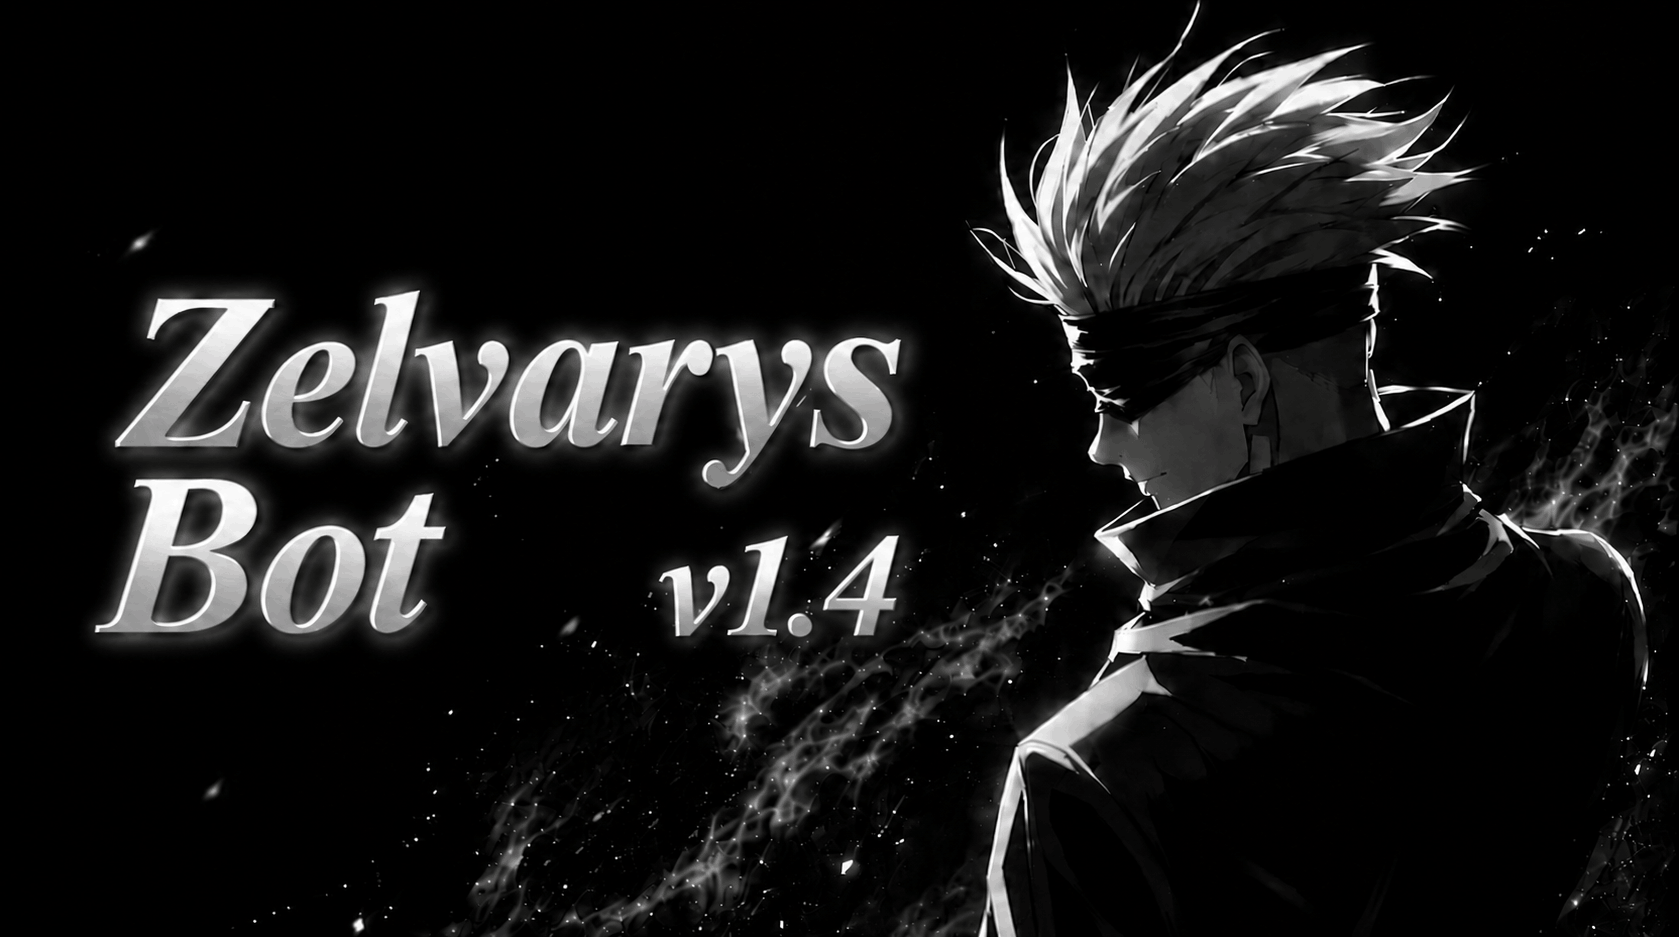
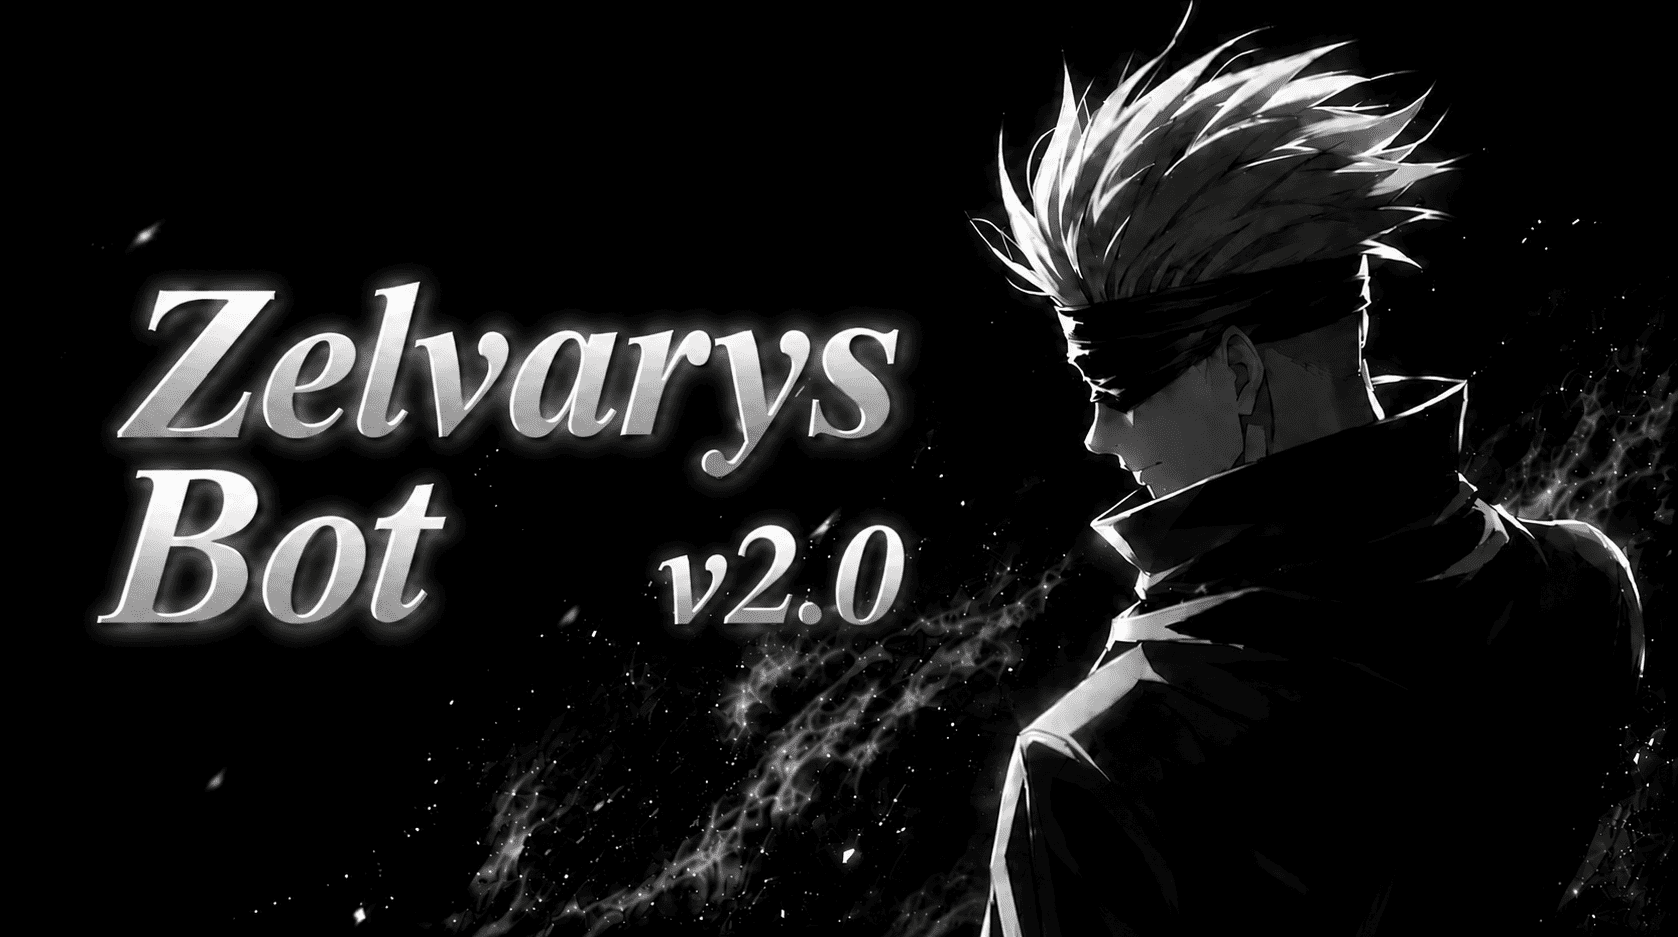
chore: tidy formatting and wording across files

diff --git a/src/commands/otherCommands.js b/src/commands/otherCommands.js
@@ -13,58 +13,58 @@ function buildHelpText() {
 
 ╔═══════ ∘◦ ✧ ◦∘ ═══════╗
 
-┌─⊶ *AI & CREATIVE*
-│• ask [question]
-│• story [prompt]
+┌─⊶ *1. AI & CREATIVE*
+│• ask <question>
 │• chatbot on/off
+│• summary <num>
 │• translate
-│• tts [text]
-│• summary [num]
-│• mood [type]
+│• story <prompt>
+│• tts <text>
+│• mood chill/roast
 └────────────⊶
 
-┌─⊶ *GAMES & FUN*
+┌─⊶ *2. GAMES & FUN*
+│• game <type>
 │• games
-│• game [type]
-│• bombshell
-│• cluster
+│• bombshell 
+│• hotseat
 │• ttt start @friend
-│• rps [choice]
 └────────────⊶
 
-┌─⊶ *UTILITY TOOLS*
-│• define [word]
+┌─⊶ *3. UTILITY TOOLS*
+│• define <word>
 │• compress
 │• sticker
-│• qrcode [text]
+│• pdf image/text
+│• qrcode <text>
 │• reveal
-│• weather [city]
+│• weather <city>
 └────────────⊶
 
-┌─⊶ *USER SYSTEM*
+┌─⊶ *4. USER SYSTEM*
 │• profile
 │• leaderboard
-│• register [name]
-│• crypto [coin]
+│• register <name>
+│• crypto <coin>
 │• feedback
 └────────────⊶
 
-┌─⊶ *MEDIA DOWNLOAD*
+┌─⊶ *5. MEDIA DOWNLOAD*
 │• download
-│• song [name/url]
+│• song <name/url>
 │• youtube
 │• tiktok
 │• facebook
 └────────────⊶
 
-┌─⊶ *OWNER ONLY*
+┌─⊶ *6. OWNER ONLY*
 │• broadcast
 │• groups
-│• mode [args]
+│• mode <args>
 │• restart
 └────────────⊶
 
-┌─⊶ *OTHERS*
+┌─⊶ *7. OTHERS*
 │• ping - Bot latency
 │• stats - Bot statistics
 │• !! - Repeat command
@@ -117,7 +117,7 @@ async function ping(sock, msg, sender) {
 
     await sock.sendMessage(sender, {
       text: `┌─⊶📡 *BOT LATENCY*
-│ 🏓 *Response:* ${responseTime}ms
+│ 🏓 *Ping:* ${responseTime}ms
 │ ${emoji} *Status:* ${status}
 └─────────────⊶`
     }, { quoted: msg });

diff --git a/src/commands/aiCommands.js b/src/commands/aiCommands.js
@@ -144,8 +144,8 @@ async function tts(sock, msg, sender, userJid, fullText) {
     return sock.sendMessage(sender, {
       text: `✧ *TEXT TO SPEECH*
 ┌─⊶
-│ *Usage:* ${config.prefix}tts [text]
-│ *Max:* ${config.ttsMaxLength} characters
+│ *Usage:* ${config.prefix}tts <text>
+│ *Example:* ${config.prefix}tts Zelvarys is Peak
 └─────────────⊶`
     }, { quoted: msg });
   }
@@ -278,7 +278,7 @@ async function mood(sock, msg, sender, userJid, args) {
 │ • roast — sharp and sarcastic
 │ • chill — laid-back and friendly
 │
-│ *Usage:* ${config.prefix}mood [roast/chill]
+│ *Usage:* ${config.prefix}mood <roast/chill>
 └─────────────⊶`
     }, { quoted: msg });
   }
@@ -304,8 +304,8 @@ async function mood(sock, msg, sender, userJid, args) {
 }
 
 function describeMood(m) {
-  if (m === 'roast') return '🔥 Roastful';
-  return '😎 Chill';
+  if (m === 'roast') return 'Roastful 🔥';
+  return 'Chill 😎';
 }
 
 module.exports = {

diff --git a/src/commands/userCommands.js b/src/commands/userCommands.js
@@ -130,7 +130,7 @@ async function register(sock, msg, sender, userJid, args) {
 async function crypto(sock, msg, sender, userJid, args) {
   if (args.length === 0) {
     return sock.sendMessage(sender, {
-      text: `✧ *CRYPTO PRICES*\n\n*Usage:* ${config.prefix}crypto [coin]\n*Supported:* ${config.supportedCryptos.join(', ')}`
+      text: `✧ *CRYPTO PRICES*\n\n*Usage:* ${config.prefix}crypto <coin>\n*Supported:* ${config.supportedCryptos.join(', ')}`
     }, { quoted: msg });
   }
 
@@ -179,7 +179,7 @@ async function feedback(sock, msg, sender, userJid, fullText) {
     return sock.sendMessage(sender, {
       text: `✧ *FEEDBACK SYSTEM*
 ┌─⊶
-│ *Usage:* ${config.prefix}feedback [message]
+│ *Usage:* ${config.prefix}feedback <message>
 │ Send suggestions or bug reports
 └─────────────⊶`
     }, { quoted: msg });

diff --git a/src/config/appConstants.js b/src/config/appConstants.js
@@ -9,18 +9,16 @@ const commandCachePath = path.join(dataDir, 'command_cache.json');
 
 // Content files (static, committed)
 const contentDir = path.join(__dirname, '../../content');
-
-// Asset files
 const botImagePath = path.join(__dirname, '../../assets/bot_image.jpg');
 
 // Bot identity
-const botVersion = '1.5';
+const botVersion = '2.0';
 
 // AI limits and timings
 const maxAiResponseLength = 4000;
 const aiCooldownTime = 10000;
 const summaryMaxMessages = 50;
-const ttsMaxLength = 200;
+const ttsMaxLength = 300;
 const maxFileSize = 15 * 1024 * 1024;
 
 const commandCooldown = 2000;
@@ -106,7 +104,6 @@ const commandReactions = {
 
   games: null,
   game: null,
-  rps: null,
   tictactoe: null,
   hangman: null,
   bombshell: null,

diff --git a/src/commands/ownerCommands.js b/src/commands/ownerCommands.js
@@ -12,7 +12,7 @@ async function broadcast(sock, msg, sender, userJid, args, fullText) {
     return sock.sendMessage(sender, {
       text: `✧ *BROADCAST COMMAND*
 ┌─⊶
-│ *Usage:* ${config.prefix}broadcast [message]
+│ *Usage:* ${config.prefix}broadcast <message>
 └─────────────⊶`
     }, { quoted: msg });
   }
@@ -102,7 +102,7 @@ async function mode(sock, msg, sender, userJid, args) {
       text: `✧ *BOT MODE*
 ┌─⊶
 │ *Current Mode:* ${botState.getMode().toUpperCase()}
-│ *Usage:* ${config.prefix}mode [public/private]
+│ *Usage:* ${config.prefix}mode <public/private>
 └─────────────⊶`
     }, { quoted: msg });
   }

diff --git a/src/routing/chatbotRouter.js b/src/routing/chatbotRouter.js
@@ -2,7 +2,7 @@ const botState = require('../models/botStateModel');
 const chatbotConversation = require('../services/ai/chatbotConversation');
 const jid = require('../utils/jidHelpers');
 
-const FIXED_TAG_REPLY = 'Hey, how can I help you';
+const FIXED_TAG_REPLY = 'Hey, how can I help you? 👀';
 
 async function routeChatbot(sock, msg, text, sender, userJid, isGroup, isReplyToBot, isTagged, stats) {
   if (!botState.isChatbotEnabled()) return;

diff --git a/src/commands/mediaCommands.js b/src/commands/mediaCommands.js
@@ -67,7 +67,7 @@ async function song(sock, msg, sender, userJid, fullText) {
     return sock.sendMessage(sender, {
       text: `✧ *MUSIC DOWNLOAD*
 ┌─⊶
-│ *Usage:* ${config.prefix}song [name/url]
+│ *Usage:* ${config.prefix}song <name/url>
 │ *Example:* ${config.prefix}song say goodbye
 └─────────────⊶`
     }, { quoted: msg });

diff --git a/src/commands/utilityCommands/define.js b/src/commands/utilityCommands/define.js
@@ -7,7 +7,7 @@ async function handle(sock, msg, sender, userJid, fullText) {
     return sock.sendMessage(sender, {
       text: `✧ *DICTIONARY*
 ┌─⊶
-│ *Usage:* ${config.prefix}define [word]
+│ *Usage:* ${config.prefix}define <word>
 │ *Example:* ${config.prefix}define serendipity
 └─────────────⊶`
     }, { quoted: msg });

diff --git a/src/commands/utilityCommands/weather.js b/src/commands/utilityCommands/weather.js
@@ -7,7 +7,7 @@ async function handle(sock, msg, sender, userJid, fullText) {
     return sock.sendMessage(sender, {
       text: `✧ *WEATHER*
 ┌─⊶
-│ *Usage:* ${config.prefix}weather [city]
+│ *Usage:* ${config.prefix}weather <city>
 │ *Example:* ${config.prefix}weather Lagos
 └─────────────⊶`
     }, { quoted: msg });

diff --git a/src/commands/utilityCommands/qrcode.js b/src/commands/utilityCommands/qrcode.js
@@ -9,7 +9,7 @@ async function handle(sock, msg, sender, userJid, fullText) {
 │ ${config.prefix}qrcode https://google.com
 │ ${config.prefix}qrcode Hello World
 └─────────────⊶
-▸ *Usage:* ${config.prefix}qrcode [text/url]`
+▸ *Usage:* ${config.prefix}qrcode <text/url>`
     }, { quoted: msg });
   }
 

diff --git a/src/services/games/tictactoeEngine.js b/src/services/games/tictactoeEngine.js
@@ -100,7 +100,7 @@ function startVsBot(chatJid, userJid) {
   });
 
   const board = formatBoard(Array(9).fill(' '));
-  const starterName = starter === 'bot' ? 'Bot' : `@${userJid.split('@')[0]}`;
+  const starterName = starter === 'bot' ? 'Bot' : `Player`;
 
   return {
     text: `❌⭕ *TIC TAC TOE vs BOT!*

diff --git a/src/services/external/dictionaryClient.js b/src/services/external/dictionaryClient.js
@@ -21,7 +21,7 @@ async function lookup(word) {
     const response = await axios.get(url, {
       timeout: 10000,
       headers: {
-        'User-Agent': 'IncognitoBot/1.4 (https://github.com/zelvarys)'
+        'User-Agent': 'whatsapp-bot/2.0 (https://github.com/zelvarys)'
       }
     });
 
